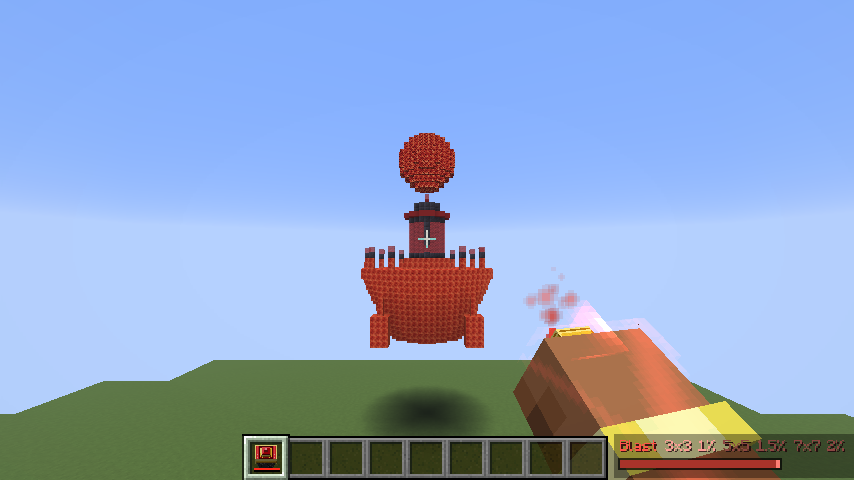
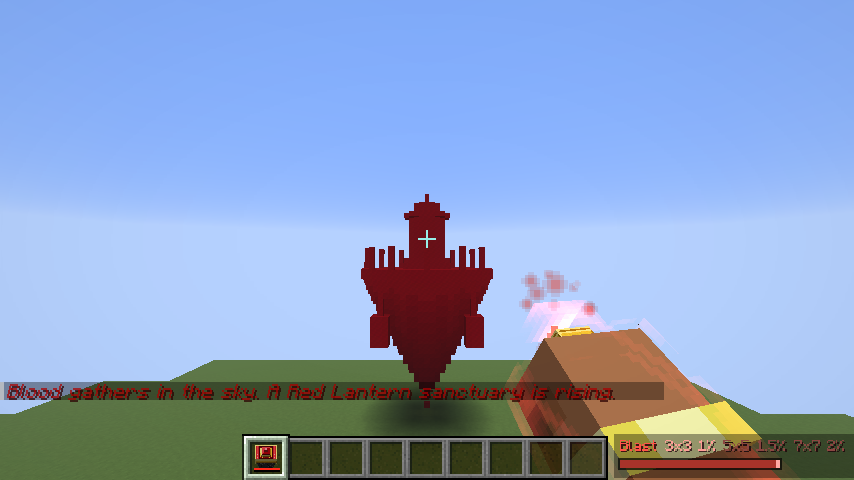
Red sanctuary: orb bursts into a pool of the Deluge's liquid, spire forms inside it (#196)
J: the ball stayed in the air, and the wrong liquid dripped down and turned into the structure,
instead of the spire being built inside the pool the ball drops. The orb now falls all the way
onto the top of the spire and bursts. Its blood pours down over the whole shape in about two
seconds, and the spire forms inside that pool from the top down. The blood is the red Deluge's own
liquid (blood_still with the ember liquid's tint, tools/sanctuary_blood_texture.py), not the
blood-lava texture.

Claude-Session: https://claude.ai/code/session_01MnfvUtwBdofXwYLcg96qEB

Changed region(s): [[0.0, 0.2812, 0.8525, 0.9062], [0.8525, 0.9062, 0.9133, 1.0], [0.7611, 0.9688, 0.8525, 1.0]]

diff --git a/src/main/java/com/sparky/lanternring/corps/RedSanctuary.java b/src/main/java/com/sparky/lanternring/corps/RedSanctuary.java
@@ -62,11 +62,11 @@ import org.jspecify.annotations.Nullable;
 
 /**
  * The Red Lantern sanctuary (J, 2026-10-12, design S1 "Rage Spire" with F1 "drips off"): a level 4
- * red Deluge doesn't flood, it raises a floating outpost. A big blood orb forms high over the spot,
- * falls onto the spire's first block (the tip of its lantern tower), and the spire then forms from
- * the top down. Each block first appears as blood ({@link #BLOOD_COAT}) and sets into what it's meant
- * to be a few seconds later, so a band of blood rolls down the spire, dripping off it as it goes,
- * and is gone by the time the point at the bottom forms. Then the angriest mobs move in, each with
+ * red Deluge doesn't flood, it raises a floating outpost. A big orb of the red Deluge's liquid swells
+ * out of the ring in the air, then drops onto the top of the spire and bursts: its blood pours down
+ * over the whole shape ({@link #BLOOD_COAT}, the Deluge's own liquid), and the spire forms inside
+ * that pool from the top down, each block setting out of the blood, which drips away as it goes and
+ * is gone by the time the point at the bottom forms. Then the angriest mobs move in, each with
  * a red ring: sky raiders (pillagers), a warden, rage cats and a red golem. They attack anyone
  * who isn't holding a red ring. Breaking the red lantern on the plaza dissolves the whole spire
  * back into blood.
@@ -126,8 +126,8 @@ public final class RedSanctuary {
 	public static final int R = 12, PLAZA = 22, CROWN = PLAZA + 16;
 	/** How far above the aimed-at ground the bottom point floats. */
 	public static final int FLOAT = 4;
-	/** How many layers the blood runs down ahead of the blocks forming under it. */
-	static final int BLOOD_LEAD = 10;
+	/** How long the burst orb's blood takes to pour down over the whole spire, before anything forms in it. */
+	static final int POOL_TICKS = 50;
 	/** The blood orb's radius, and how far above the crown it forms. */
 	static final int ORB = 7, ORB_HEIGHT = 12;
 
@@ -501,7 +501,7 @@ public final class RedSanctuary {
 		switch (site.stage) {
 			case ORB -> {
 				long t = now - w.started;
-				Vec3 land = Vec3.atBottomCenterOf(w.crown()).add(0, ORB, 0);
+				Vec3 land = Vec3.atBottomCenterOf(w.crown()).add(0, ORB * 0.5, 0);
 				int r = (int) Math.max(1, Math.min(ORB, Math.round(ORB * Math.min(1.0, t / (orbTicks * 0.6)))));
 				if (t < orbTicks * 0.6) {
 					// Swelling out of the ring.
@@ -516,17 +516,17 @@ public final class RedSanctuary {
 					w.orbZ = Mth.lerp(k, w.orbFrom.z, land.z);
 					w.orbY = Mth.lerp(k * k, w.orbFrom.y, land.y);
 				}
-				// The first block forms just before the orb lands on it.
-				if (t == (long) (orbTicks * 0.6)) place(w, w.crown(), false, now);
 				showOrb(w, r);
 				if (t % 10 == 0) level.playSound(null, w.crown().above(ORB_HEIGHT), SoundEvents.WARDEN_HEARTBEAT, SoundSource.HOSTILE, 3f, 0.6f);
 				if (t >= orbTicks) {
 					level.playSound(null, w.crown(), SoundEvents.GENERIC_SPLASH, SoundSource.HOSTILE, 4f, 0.5f);
 					level.playSound(null, w.crown(), SoundEvents.HONEY_BLOCK_BREAK, SoundSource.HOSTILE, 4f, 0.5f);
 					level.sendParticles(BLOOD, w.crown().getX() + 0.5, w.crown().getY() + 1, w.crown().getZ() + 0.5, 120, 3, 1, 3, 0.4);
+					// It bursts on the crown: all of it pours down into the pool the spire will form in.
+					clearOrb(w);
 					site.stage = Stage.BUILD;
 					site.layer = 0;
-					w.nextLayer = now;
+					w.nextLayer = now + POOL_TICKS;
 					data.setDirty();
 				}
 			}
@@ -542,8 +542,10 @@ public final class RedSanctuary {
 					w.wetTo = site.layer;
 				}
 				int perLayer = Math.max(1, RingTuning.SANCTUARY_BUILD.ticks() / Math.max(1, w.layers.size()));
-				// The blood runs down first, BLOOD_LEAD layers ahead, and the spire forms underneath it.
-				while (w.wetTo < Math.min(w.layers.size(), site.layer + BLOOD_LEAD)) {
+				// The burst orb's blood pours down over the whole shape first, and the spire forms inside it.
+				int pour = Math.max(1, (w.layers.size() + POOL_TICKS - 1) / POOL_TICKS);
+				int pourTo = Math.min(w.layers.size(), Math.max(w.wetTo + pour, site.layer + 1));
+				while (w.wetTo < pourTo) {
 					for (BlockPos p : w.layers.get(w.wetTo)) {
 						if (open(w, p) && fillable(level.getBlockState(p)) && !level.getBlockState(p).is(BLOOD_COAT)) {
 							level.setBlock(p, BLOOD_COAT.defaultBlockState(), FLAGS);
@@ -559,9 +561,6 @@ public final class RedSanctuary {
 					data.setDirty();
 					if (site.layer % 3 == 0) level.playSound(null, w.layers.get(site.layer - 1).getFirst(), SoundEvents.HONEY_BLOCK_PLACE, SoundSource.BLOCKS, 2f, 0.6f);
 				}
-				// The orb drains into the spire as it builds.
-				double done = site.layer / (double) w.layers.size();
-				showOrb(w, (int) Math.round(ORB * Math.pow(1 - done, 0.7)));
 				drips(w);
 				if (site.layer >= w.layers.size() && w.pending.isEmpty()) {
 					site.stage = Stage.STANDING;

diff --git a/tools/sanctuary_blood_texture.py b/tools/sanctuary_blood_texture.py
@@ -1,0 +1,29 @@
+"""The Red sanctuary's pool of blood (block/sanctuary_blood.png): the red Deluge's own liquid, the
+greyscale blood_still frames multiplied by the tint the game puts on the ember liquid
+(EMBER_LIQUID_TINT 0x8C0610 in LanternRingClient), so the pool matches what a red Deluge pours.
+
+    python3 tools/sanctuary_blood_texture.py
+"""
+import os
+import shutil
+
+from PIL import Image
+
+BLOCK = os.path.join(os.path.dirname(__file__), "..", "src", "main", "resources", "assets", "lanternring", "textures", "block")
+TINT = (0x8C, 0x06, 0x10)
+
+
+def main():
+    src = Image.open(os.path.join(BLOCK, "blood_still.png")).convert("RGBA")
+    out = Image.new("RGBA", src.size)
+    for y in range(src.height):
+        for x in range(src.width):
+            r, g, b, a = src.getpixel((x, y))
+            out.putpixel((x, y), (r * TINT[0] // 255, g * TINT[1] // 255, b * TINT[2] // 255, 255))
+    out.save(os.path.join(BLOCK, "sanctuary_blood.png"))
+    shutil.copy(os.path.join(BLOCK, "blood_still.png.mcmeta"), os.path.join(BLOCK, "sanctuary_blood.png.mcmeta"))
+    print("wrote sanctuary_blood.png")
+
+
+if __name__ == "__main__":
+    main()
